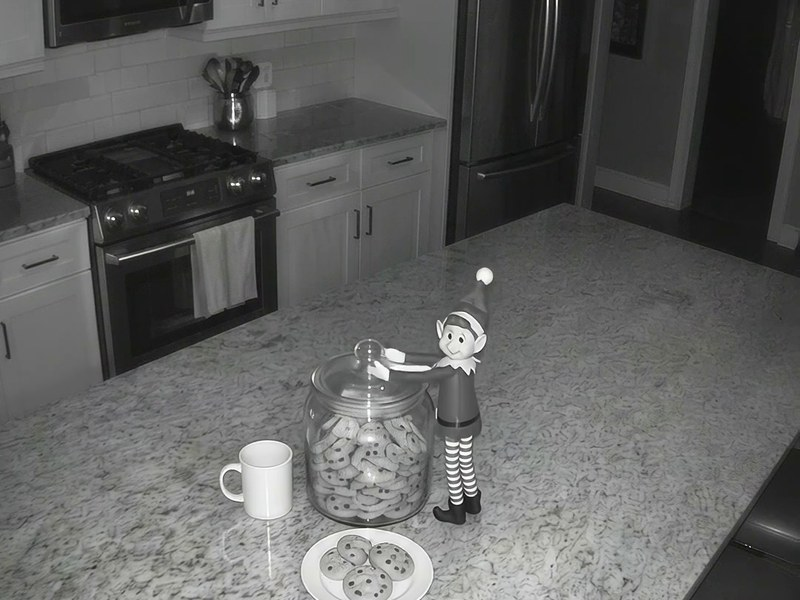
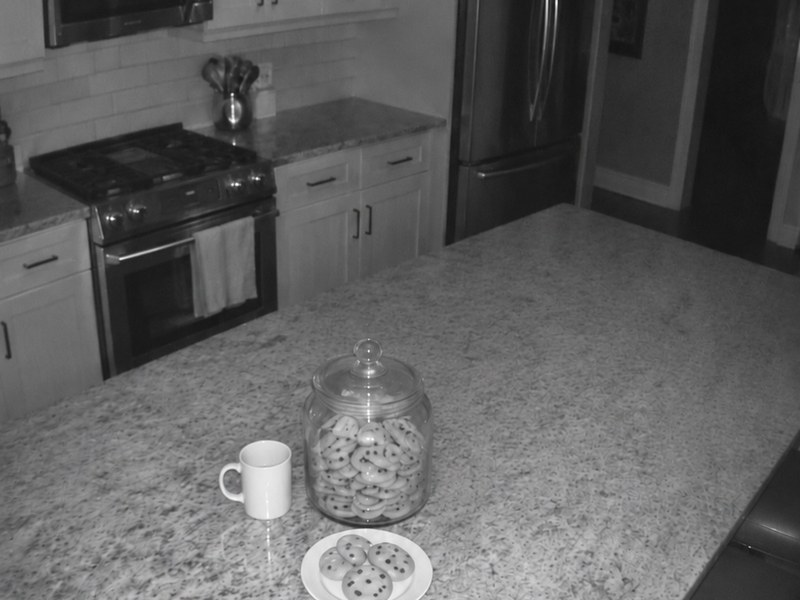
Empty-room tiles so the elf is a surprise when a camera opens
Claude-Session: https://claude.ai/code/session_019bD5m8FCN1PSMgdVZin6uc

diff --git a/sw.js b/sw.js
@@ -1,4 +1,4 @@
-const CACHE='cool-house-v14';
+const CACHE='cool-house-v15';
 const FILES=['./','index.html','tile_fd.jpg','tile_ki.jpg','tile_lr.jpg','tile_of.jpg','icon.png','manifest.json','fd1.mp4','fd1_idle.mp4','fd2.mp4','fd2_idle.mp4','fd3.mp4','fd3_idle.mp4','fd4.mp4','ki1.mp4','lr1.mp4','of1.mp4','finale.mp4','ki_lights.jpg','lr_lights.jpg','ki1_idle.mp4','lr1_idle.mp4'];
 self.addEventListener('install',e=>{e.waitUntil(caches.open(CACHE).then(c=>c.addAll(FILES.map(f=>new Request(f,{cache:'reload'})))).then(()=>self.skipWaiting()))});
 self.addEventListener('activate',e=>{e.waitUntil(caches.keys().then(ks=>Promise.all(ks.filter(k=>k!==CACHE).map(k=>caches.delete(k)))).then(()=>self.clients.claim()))});
